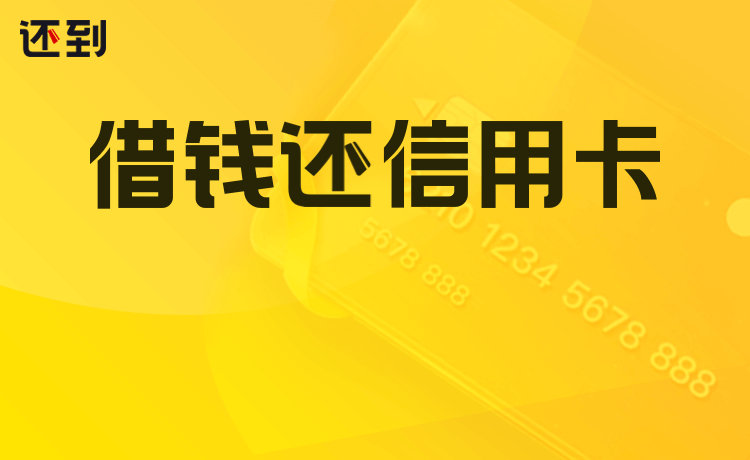
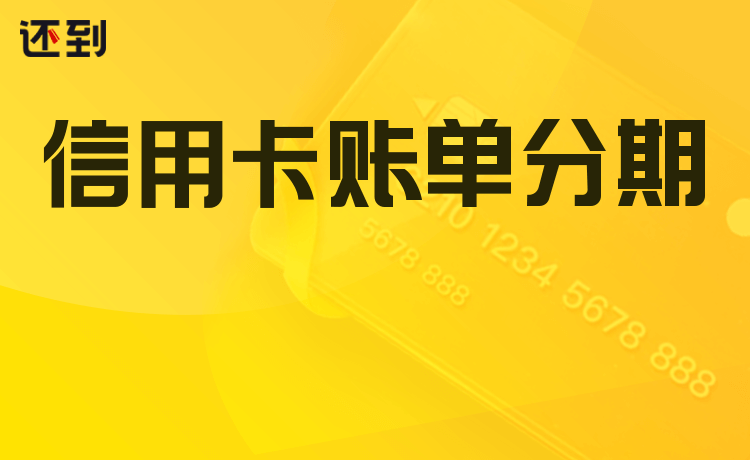
修改样式以及文案

Changed region(s): [[0.0613, 0.2435, 0.9507, 0.4565]]

diff --git a/src/pages/login/toutiao_login_page/index.js b/src/pages/login/toutiao_login_page/index.js
@@ -1,6 +1,6 @@
 /*
  * @Author: shawn
- * @LastEditTime : 2019-12-24 13:53:52
+ * @LastEditTime : 2019-12-24 15:17:58
  */
 import qs from 'qs';
 import { address } from 'utils/Address';
@@ -532,9 +532,9 @@ export default class momo_outer_login_page extends PureComponent {
 						<img className={styles.featureImg} src={feature_img2} alt="特征" />
 						<p className={styles.featureTit}>快捷</p>
 						<p className={styles.featureDesc}>
-							直接还到信用卡
+							最快5分钟到账
 							<br />
-							秒到账
+							最长可分12期
 						</p>
 					</li>
 					<li>
@@ -543,7 +543,7 @@ export default class momo_outer_login_page extends PureComponent {
 						<p className={styles.featureDesc}>
 							持牌金融机构
 							<br />
-							专业代偿
+							放心用
 						</p>
 					</li>
 				</ul>
